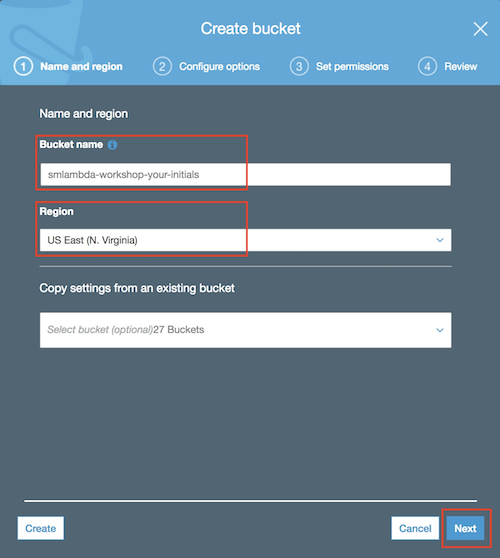
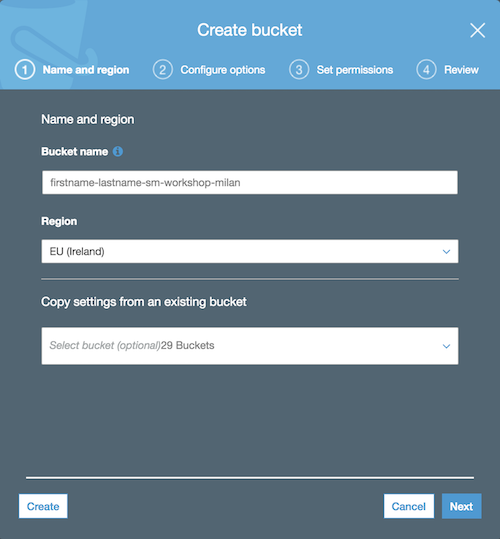
Updated lab 01

Changed region(s): [[0.0, 0.0297, 1.0, 0.6827], [0.03, 0.8609, 0.99, 1.0], [0.93, 0.0297, 0.99, 0.0594]]

diff --git a/01 Creating a Managed Notebook Instance/README.md b/01 Creating a Managed Notebook Instance/README.md
@@ -2,22 +2,20 @@
 
 ## Overview
 
-Amazon SageMaker is a fully-managed service that enables developers and data scientists to quickly and easily build, train, and deploy machine learning models at any scale. Amazon SageMaker removes all the barriers that typically slow down developers who want to use machine learning.
+Amazon SageMaker is a fully-managed service that enables developers and data scientists to quickly and easily build, train, tune and deploy machine learning models at any scale. Amazon SageMaker removes all the barriers that typically slow down developers who want to use machine learning.
 
-Amazon SageMaker removes the complexity that holds back developer success with each of these steps. Amazon SageMaker includes modules that can be used together or independently to build, train, and deploy your machine learning models.
-
-In this section, we will walk you through creating a S3 bucket for storing data and a Jupyter notebook instance managed by Amazon SageMaker.
+In this lab, we will walk you through creating a S3 bucket for storing data and a Jupyter notebook instance managed by Amazon SageMaker.
 
 ## Create an Amazon S3 bucket
-In this section, we will create an Amazon S3 bucket to be used for storing data of this workshop. Amazon SageMaker uses **Amazon S3** as the main storage for both data and model artifacts; you can actually use other sources when loading data into the Jupyter notebook instances, but this is outside of the scope of this lab.
+In this section, we will create an Amazon S3 bucket to be used as the storage service for this workshop. Amazon SageMaker uses **Amazon S3** as the main storage for both data and model artifacts; you can actually use other sources when loading data into the Jupyter notebook instances, but this is outside of the scope of this workshop and not a recommended approach for large-scale Machine Learning.
 
-1. Sign into the **AWS Management Console** at <a href="https://console.aws.amazon.com/">https://console.aws.amazon.com/</a>
+1. Sign into the **AWS Management Console** at <a href="https://763259499939.signin.aws.amazon.com/console">https://763259499939.signin.aws.amazon.com/console</a>
 2. In the upper-right corner of the AWS Management Console, confirm you are in the desired AWS region. For this workshop we will use the **EU West (Ireland)** [eu-west-1]
 3. Open the **Amazon S3** console at <a href="https://console.aws.amazon.com/s3">https://console.aws.amazon.com/s3</a> or choose the Amazon S3 service in the menu.
 4.	In the Amazon S3 console, click the **Create Bucket** button.
 	![Amazon S3 create bucket](images/create_bucket.png)
 5.	For the **Bucket Name**, type _**[firstname-lastname]**-sm-workshop-milan_ in the text box and click Next (take note of the bucket name, as it will be needed for next workshop activities). Press **Next** to move to the next screen.
-Note: if the bucket name is already taken, feel free to add an extra suffix.
+Note: if the bucket name is already taken, feel free to add an extra prefix.
 
 	![Amazon S3 create bucket window](images/create_bucket_window.png)
 6. Enable versioning of the objects in the bucket as shown in the screen below. Enabling versioning allows to keep different versions of the data; although this is not strictly required for this workshop, it is still a good practice to track versions of data used to train ML models.
@@ -29,8 +27,8 @@ Note: if the bucket name is already taken, feel free to add an extra suffix.
 
 
 ## Create a managed Jupyter Notebook instance
-In this section we will use an Amazon SageMaker managed Jupyter notebook instance to prepare and process data and write the code to train the model.
-An **Amazon SageMaker notebook instance** is a fully managed ML compute instance running the <a href="http://jupyter.org/">**Jupyter Notebook**</a> application. Amazon SageMaker manages creating the instance and related resources. 
+In this section we will  create use an Amazon SageMaker managed Jupyter notebook instance.
+An **Amazon SageMaker notebook instance** is a fully managed ML compute instance running the <a href="http://jupyter.org/">**Jupyter Notebook**</a> application and Anaconda. Amazon SageMaker manages creating the instance and related resources. 
 
 1. In the AWS Management Console, click on Services, type “SageMaker” and press enter.
 	
@@ -42,16 +40,14 @@ An **Amazon SageMaker notebook instance** is a fully managed ML compute instance
 
 	![Amazon SageMaker](images/sm_5.png)
 
-	1. Give the Notebook Instance a name like _notebook-instance-**[your-initials]**_
+	1. Give the Notebook Instance a name like _**[firstname-lastname]**-nb-instance_
 
-	2. Choose **ml.t2.medium** as **Notebook instance type**
-	3. Choose **Create a new role** in the **IAM role** dropdown list. Notebook instances require permissions to call other services including Amazon SageMaker and Amazon S3 APIs. Choose **Specific S3 buckets** in the **Create an IAM role** window and input the name of the bucket that you have created in the previous section. Then click on **Create role**.
-	
-		![Amazon SageMaker](images/sm_3.png)
-		If you already had a role with the proper grants to access the newly created bucket, creating a new role is not mandatory and you can just choose to use the existing role.
+	2. Choose **ml.t3.medium** as **Notebook instance type**
+	3. Choose the available **IAM role** (named AmazonSageMaker-ExecutionRole-XXXXX) from the dropdown list. Notebook instances require permissions to call other services including Amazon SageMaker and Amazon S3 APIs. For the purpose of this workshop, the IAM role has been pre-configured, which is very likely to happen when the notebook instance is provisioned by another team in your organization.
 	4. Keep **No VPC** selected in the **VPC** dropdown list
 	5. Keep **No configuration** selected in the **Lifecycle configuration** dropdown list
 	6. Keep **No Custom Encryption** selected in the **Encryption key** dropdown list
+	7. Modify the **Volume size in GB** to 30, in order to have more storage available on the instance
 	7. Finally, click on **Create notebook instance**
 
 4. You will be redirected to the **Notebook instances** screen
@@ -62,11 +58,9 @@ An **Amazon SageMaker notebook instance** is a fully managed ML compute instance
 	
 	![Amazon SageMaker](images/sm_6.png)
 
-### Download notebook and training code to the notebook instance
+### Download workshop examples to the notebook instance
 
-For the purpose of this workshop the code required to build and train the Machine Learning model is pre-implemented and available for download from GitHub.
-
-As a consequence, in this section we will clone the GitHub repository into the Amazon SageMaker notebook instance and access the Jupyter notebook to run training.
+In this section we will clone the GitHub repository into the Amazon SageMaker notebook instance and access the Jupyter notebooks with the code for the labs.
 
 1. Click on **New > Terminal** in the right-hand side of the Jupyter interface
 	
@@ -86,4 +80,4 @@ As a consequence, in this section we will clone the GitHub repository into the A
 
 	![Amazon SageMaker](images/sm_9.png)
 	
-4. Browse to the folder **sm-workshop** and move to the first example.
+4. Browse to the folder **sm-workshop** and move to the second lab.
